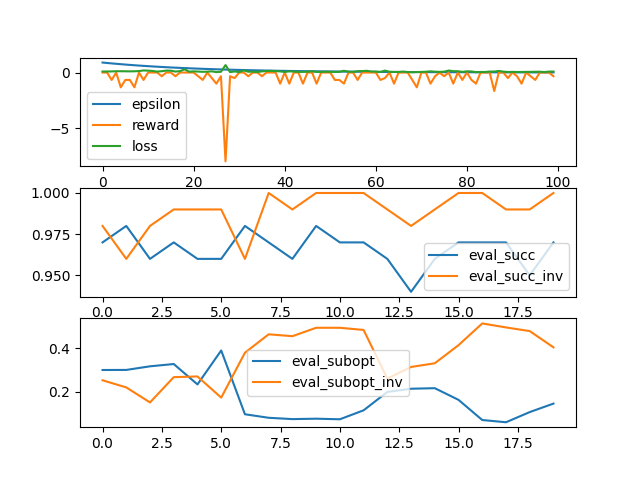
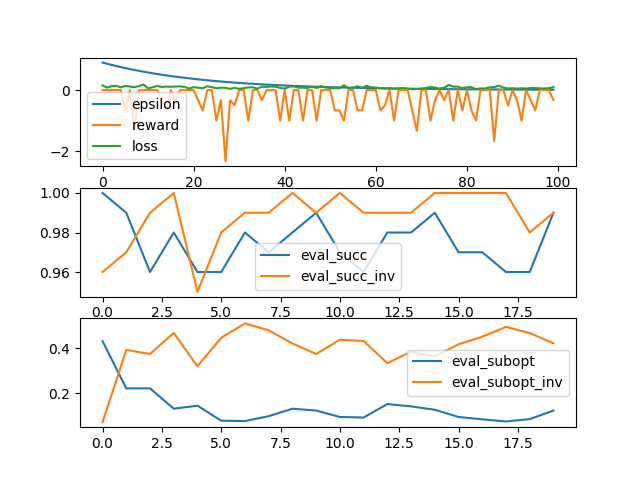
also including all other agents

diff --git a/sim/decentralized/policy.py b/sim/decentralized/policy.py
@@ -255,8 +255,14 @@ class LearnedRaisingPolicy(LearnedPolicy):
         elif self.a.has_roadmap:
             raise NotImplementedError()
         ids = ([self.a.id]+list(self.paths.keys()))
+        # this agent
         i_a = 0
-        i_oa = ids.index(id_coll)
+        # colliding agent
+        i_ca = ids.index(id_coll)
+        # other agents
+        i_oas = [i for i in range(len(ids)) if (
+            i != 0 and i != i_ca
+        )]
         self.path_is[self.a.id] = self.a.path_i
         paths_full = ([self.a.path] +
                       list(self.paths.values()))
@@ -265,12 +271,15 @@ class LearnedRaisingPolicy(LearnedPolicy):
             paths_until_col.append(self._path_until_coll(
                 paths_full[i_id], self.path_is[id], None))
         data_x = torch.cat((
-            get_agent_pos_layer(data_pos, paths_until_col, i_a),
-            get_agent_path_layer(data_pos, paths_until_col, i_a),
-            get_agent_path_layer(data_pos, paths_full, i_a),
-            get_agent_pos_layer(data_pos, paths_until_col, i_oa),
-            get_agent_path_layer(data_pos, paths_until_col, i_oa),
-            get_agent_path_layer(data_pos, paths_full, i_oa),
+            get_agent_pos_layer(data_pos, paths_until_col, [i_a]),
+            get_agent_path_layer(data_pos, paths_until_col, [i_a]),
+            get_agent_path_layer(data_pos, paths_full, [i_a]),
+            get_agent_pos_layer(data_pos, paths_until_col, [i_ca]),
+            get_agent_path_layer(data_pos, paths_until_col, [i_ca]),
+            get_agent_path_layer(data_pos, paths_full, [i_ca]),
+            get_agent_pos_layer(data_pos, paths_until_col, i_oas),
+            get_agent_path_layer(data_pos, paths_until_col, i_oas),
+            get_agent_path_layer(data_pos, paths_full, i_oas),
         ), 1)
         return Data(
             x=data_x,

diff --git a/planner/policylearn/generate_graph.py b/planner/policylearn/generate_graph.py
@@ -49,23 +49,25 @@ def gridmap_to_graph(gridmap):
     return data_edge_index, data_pos
 
 
-def get_agent_pos_layer(data_pos, paths_until_col, i_a):
+def get_agent_pos_layer(data_pos, paths_until_col, i_as):
     n_nodes = data_pos.shape[0]
     data_x_slice = torch.zeros((n_nodes, 1))
-    pos = paths_until_col[i_a][0]
-    node = pos_to_node(data_pos, pos)
-    assert node is not None
-    data_x_slice[node, 0] = 1
-    return data_x_slice
-
-
-def get_agent_path_layer(data_pos, paths_full, i_a):
-    n_nodes = data_pos.shape[0]
-    data_x_slice = torch.zeros((n_nodes, 1))
-    for pos in paths_full[i_a]:
+    for i_a in i_as:
+        pos = paths_until_col[i_a][0]
         node = pos_to_node(data_pos, pos)
         assert node is not None
         data_x_slice[node, 0] = 1
+    return data_x_slice
+
+
+def get_agent_path_layer(data_pos, paths_full, i_as):
+    n_nodes = data_pos.shape[0]
+    data_x_slice = torch.zeros((n_nodes, 1))
+    for i_a in i_as:
+        for pos in paths_full[i_a]:
+            node = pos_to_node(data_pos, pos)
+            assert node is not None
+            data_x_slice[node, 0] = 1
     return data_x_slice
 
 

diff --git a/planner/mapf_with_rl/mapf_with_rl.py b/planner/mapf_with_rl/mapf_with_rl.py
@@ -288,8 +288,8 @@ def q_learning(n_episodes: int, eps_start: float,
     data_test = make_useful_scenarios(
         n_data_test, n_episodes * 11, ignore_finished_agents)
 
-    qfun = Qfunction(6, 2, 16)
-    qfun_hat = Qfunction(6, 2, 16)
+    qfun = Qfunction(9, 2, 16)
+    qfun_hat = Qfunction(9, 2, 16)
     qfun.copy_to(qfun_hat)
 
     # replay memory
